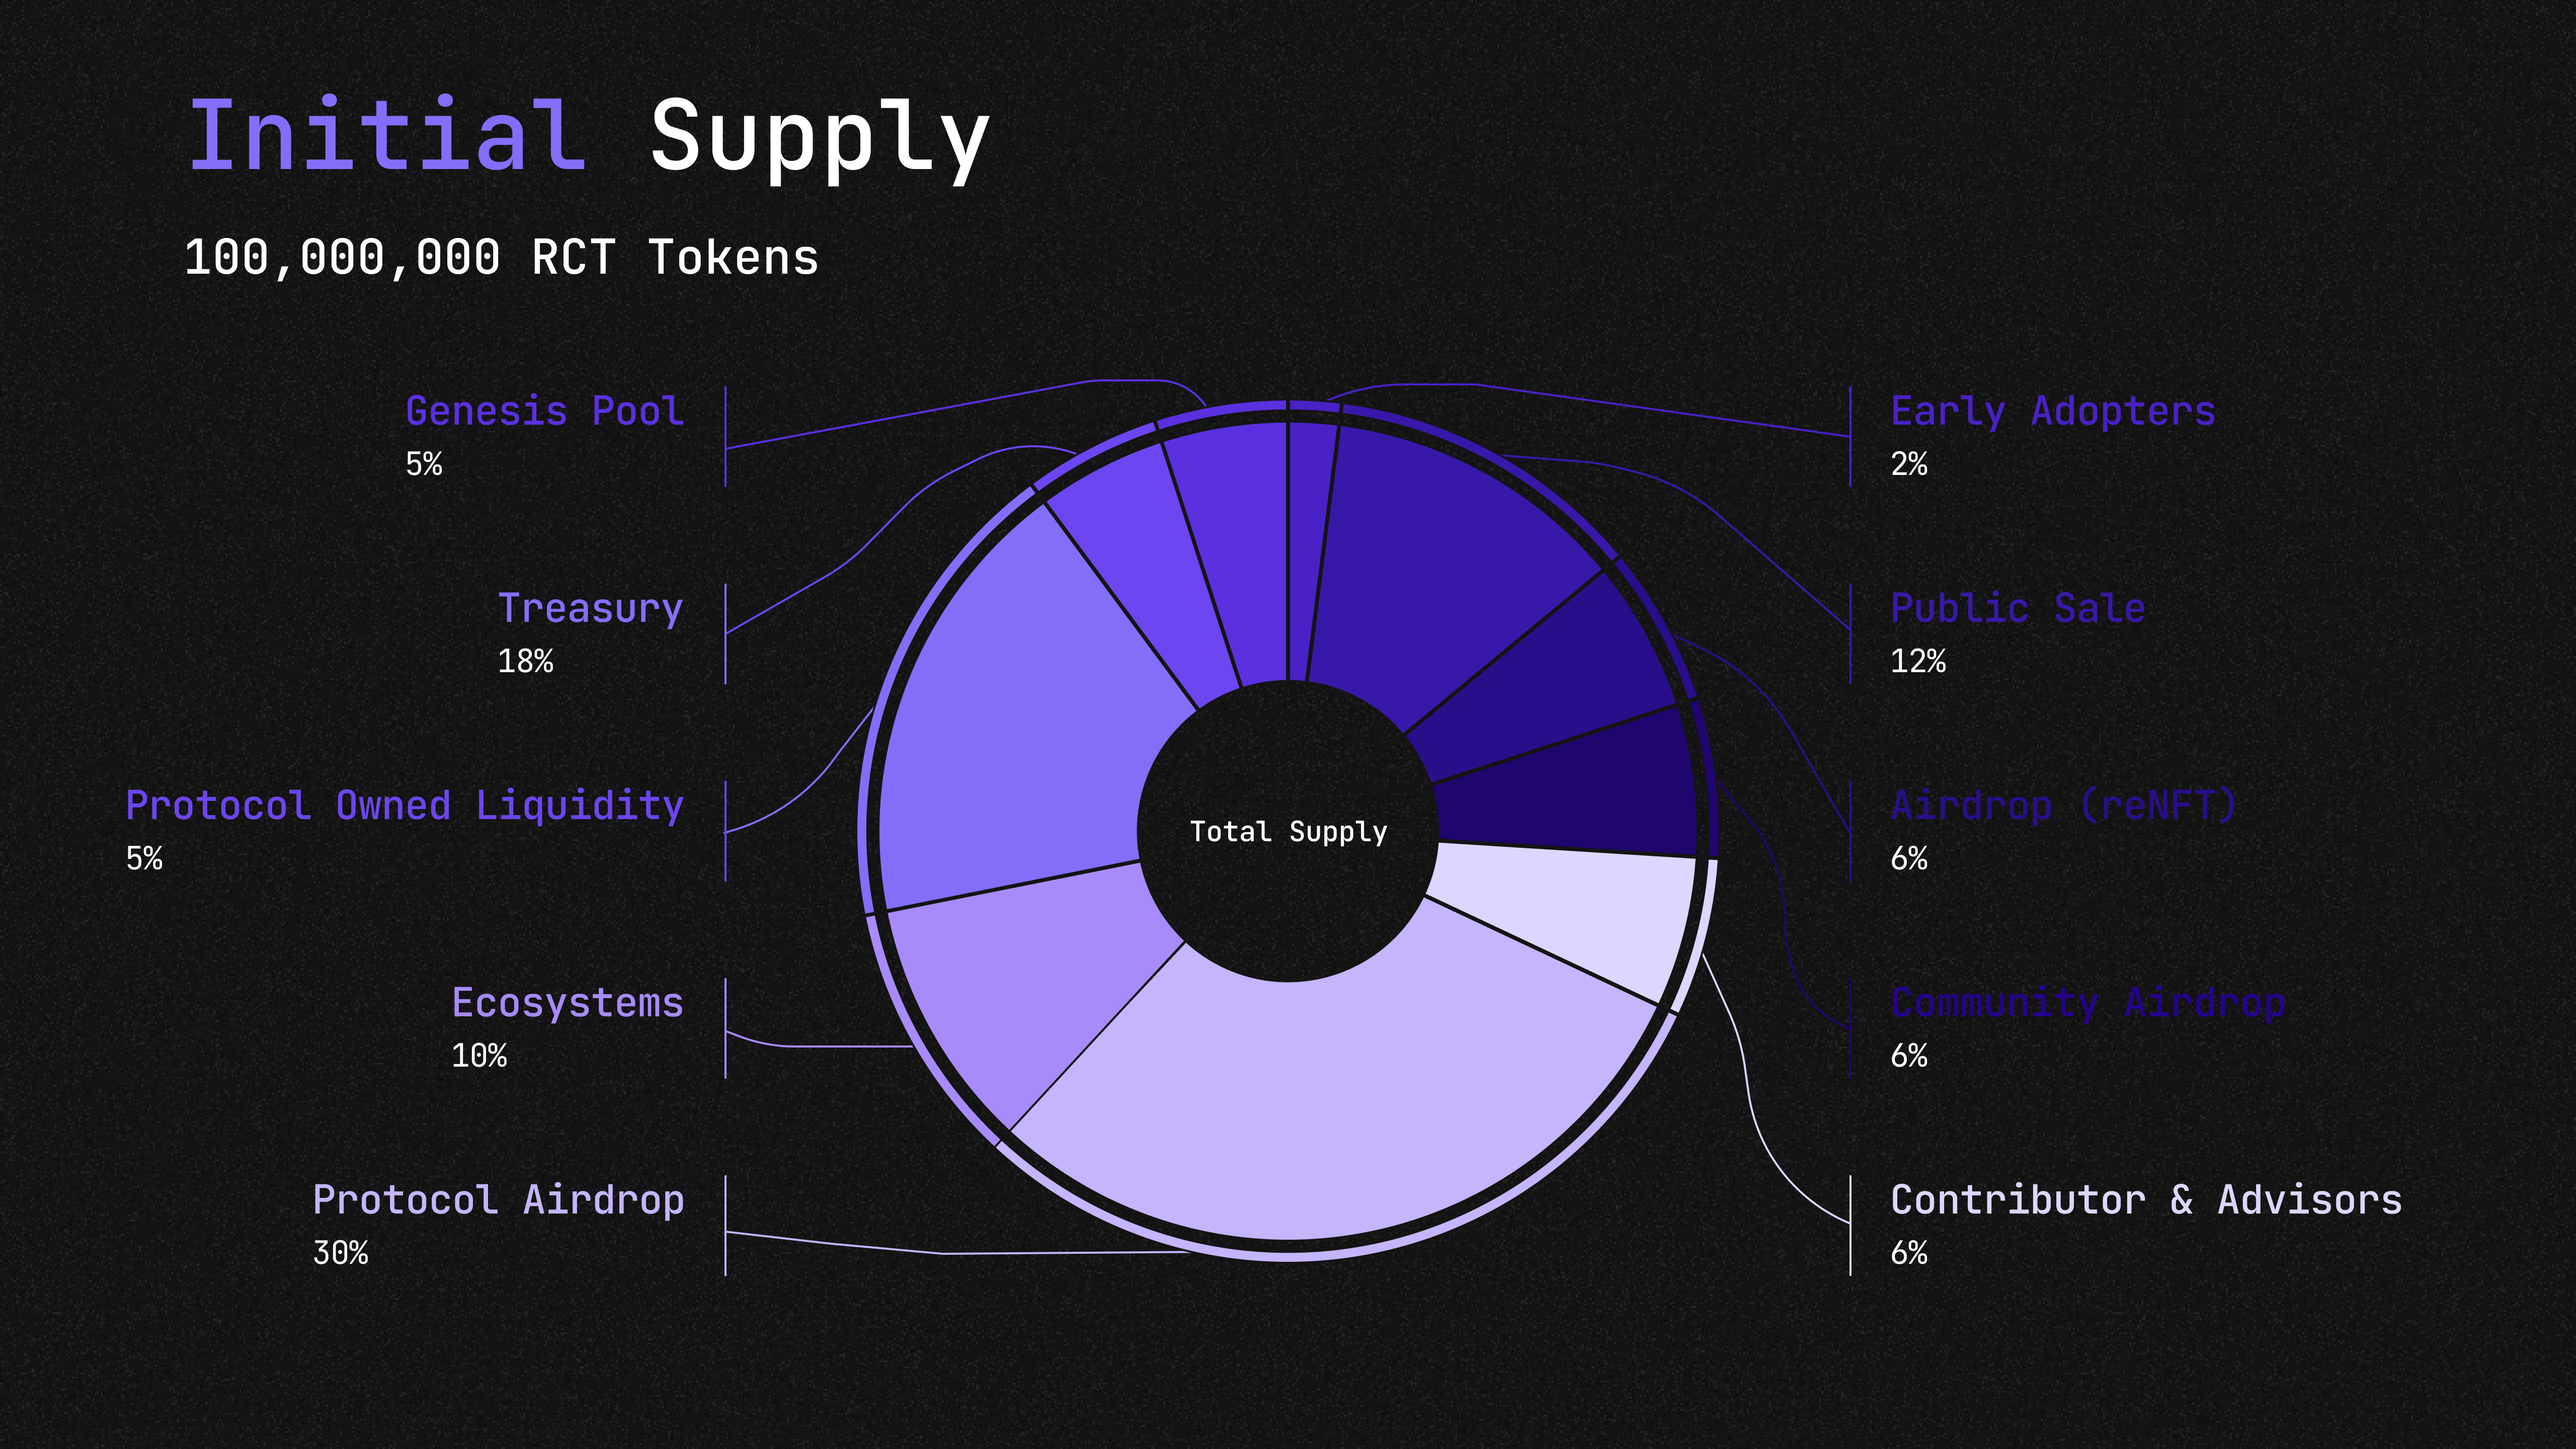
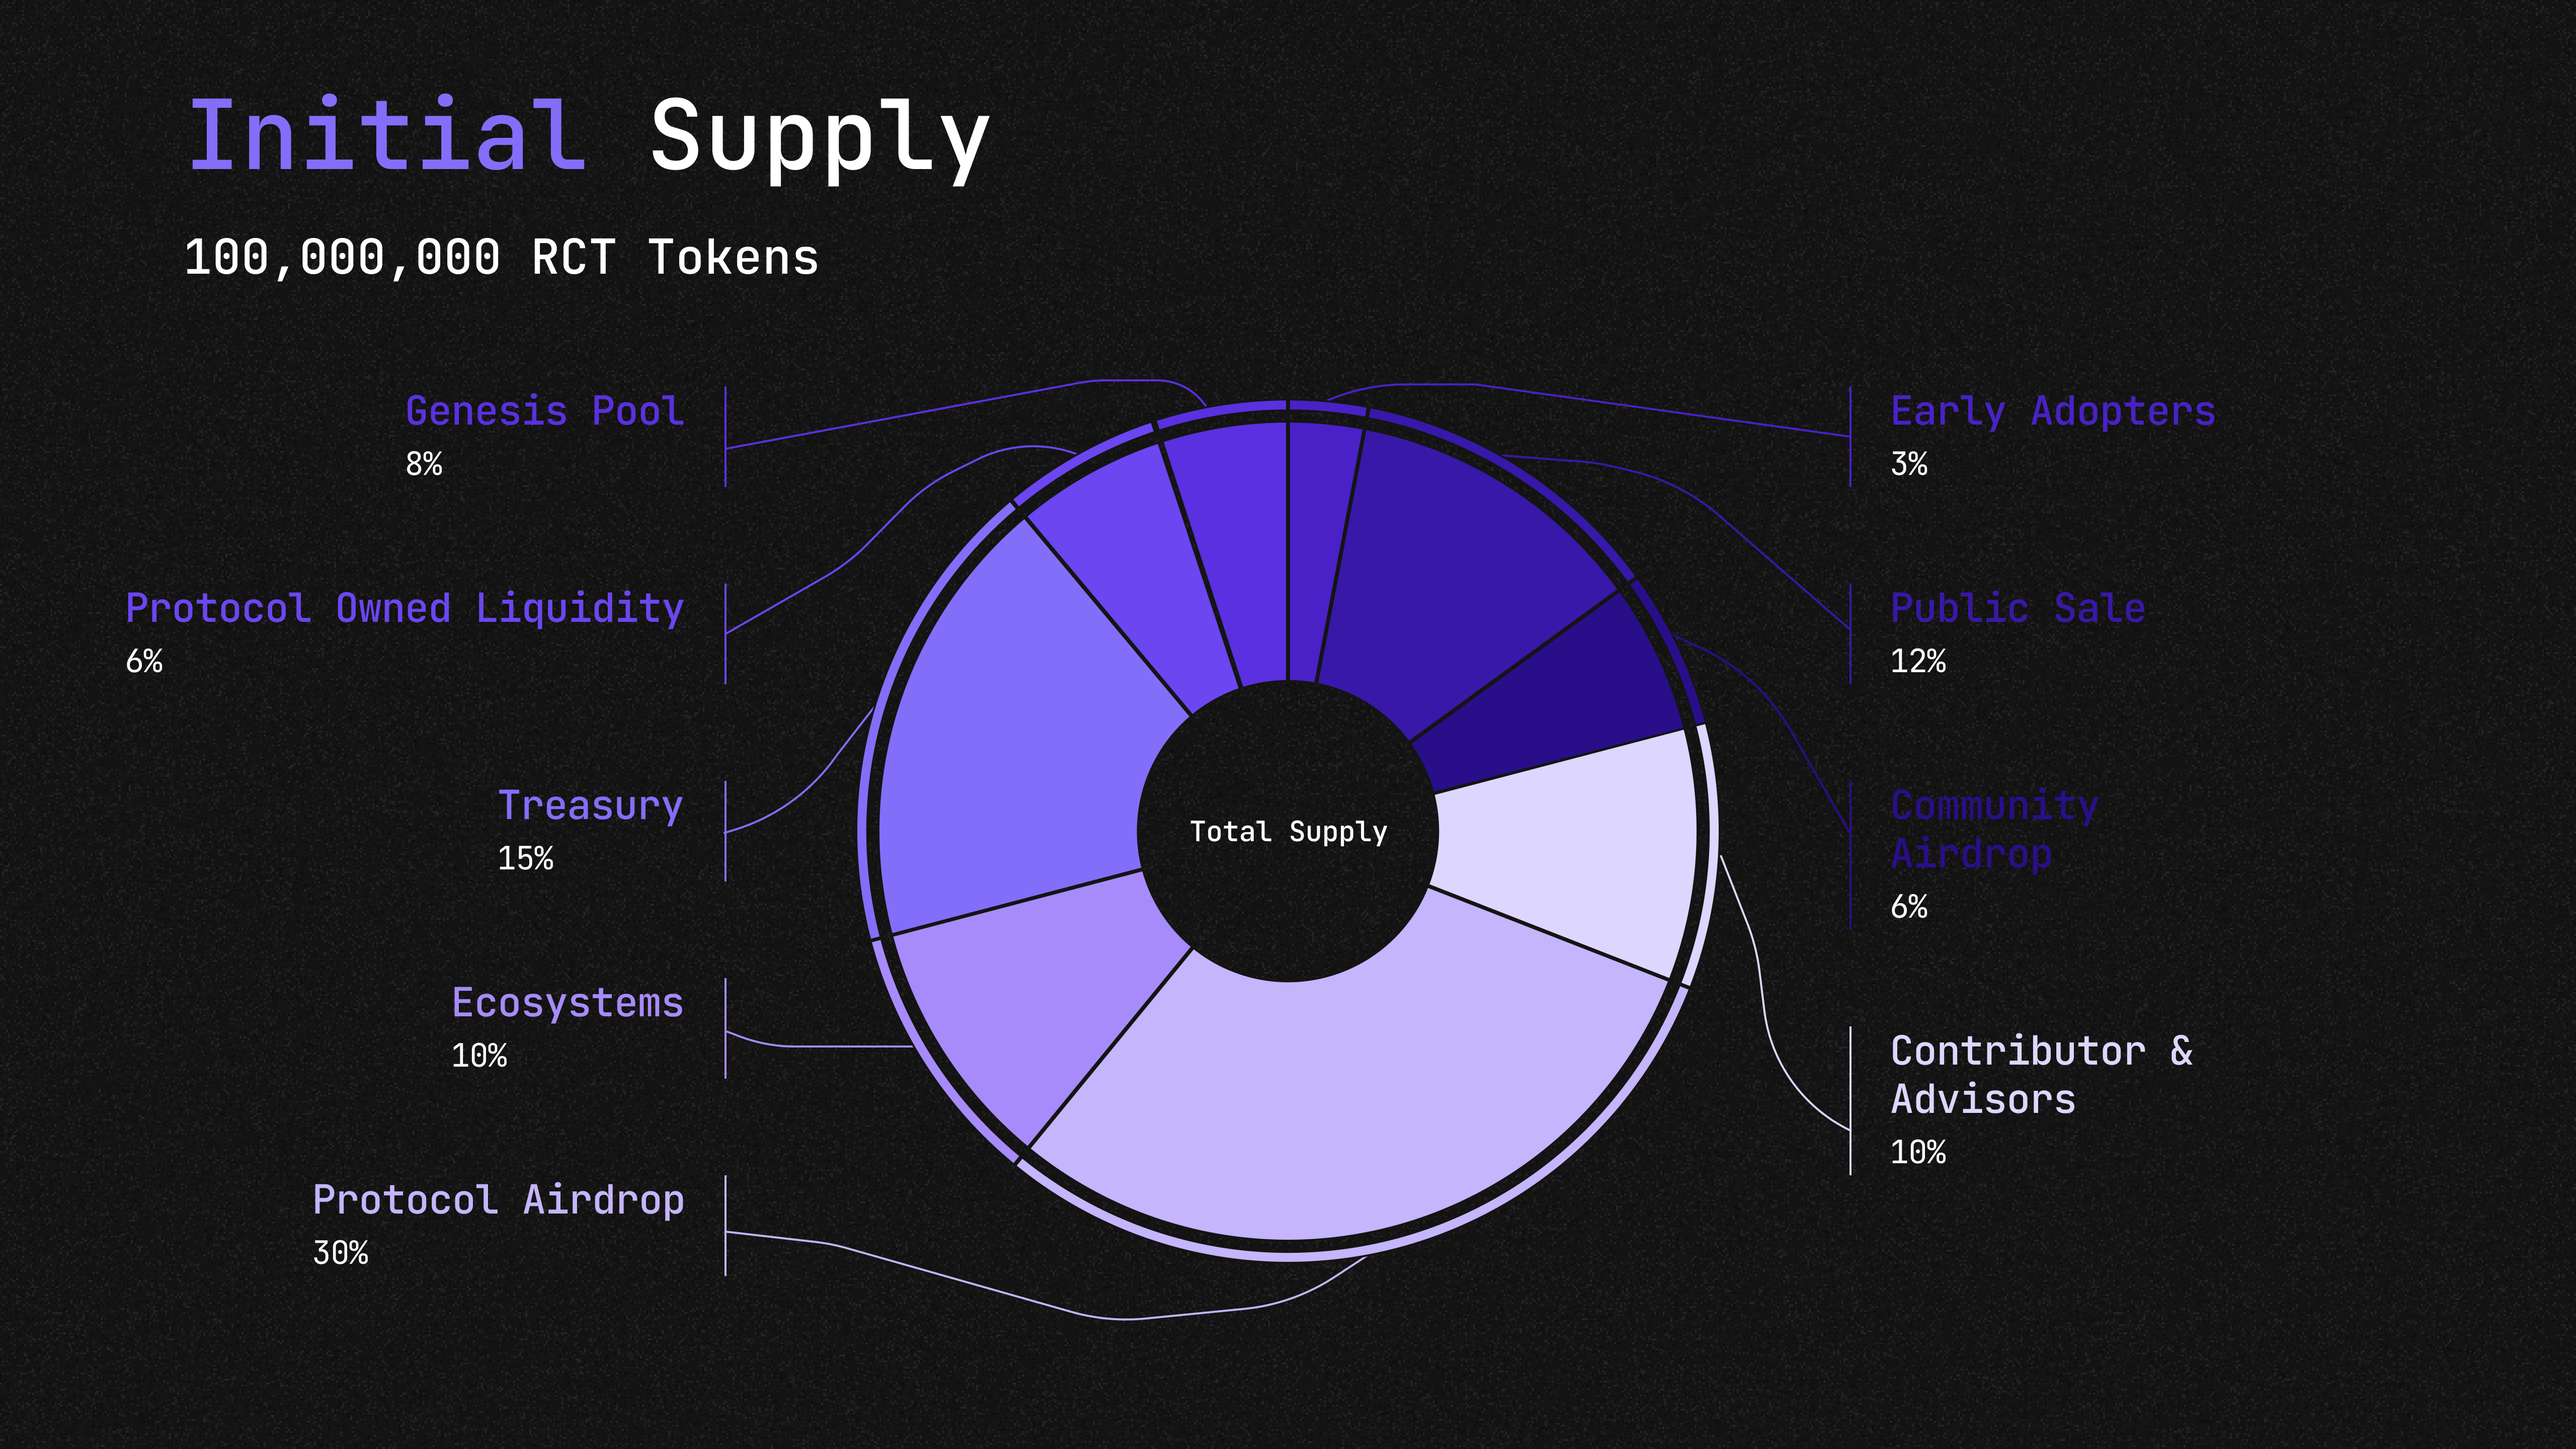
GITBOOK-10: No subject

diff --git a/tokenomics/distribution-schedule/README.md b/tokenomics/distribution-schedule/README.md
@@ -4,14 +4,19 @@
 
 <figure><img src="../../.gitbook/assets/Token Allocation (1).png" alt=""><figcaption></figcaption></figure>
 
-
-
 ## Token Distribution
 
-<table><thead><tr><th width="215">Category</th><th width="101" align="center">Percent</th><th width="159">Allocation</th><th width="238">Vesting</th></tr></thead><tbody><tr><td>Early Adopters</td><td align="center">3%</td><td>3,000,000</td><td>10% RCT at TGE, 90% veRCT locked 6months at TGE</td></tr><tr><td>Public Sale</td><td align="center">12%</td><td>12,000,000</td><td>50% RCT and 50% veRCT locked for 6months at TGE.</td></tr><tr><td>Community Airdrop</td><td align="center">6%</td><td>6,000,000</td><td>10% at TGE, 20% at months 6, 30% at months 12, 40% at months 24.</td></tr><tr><td>Protocol Airdrop</td><td align="center">30%</td><td>30,000,000</td><td>10% RCT and 90% in veRCT (max locked)</td></tr><tr><td>Contributor &#x26; Advisors</td><td align="center">10%</td><td>6,000,000</td><td>10% at month 1, followed by 90% locked in veRCT for 24 months.</td></tr><tr><td>Ecosystems</td><td align="center">10%</td><td>10,000,000</td><td>60% at 1 month, 4-month linear vesting.</td></tr><tr><td>Treasury</td><td align="center">15%</td><td>15,000,000</td><td>10% RCT and 90% veRCT (max locked)</td></tr><tr><td>Protocol Owned Liquidity</td><td align="center">6%</td><td>5,000,000</td><td>100% TGE in RCT</td></tr><tr><td>Genesis Pool</td><td align="center">8%</td><td>8,000,000</td><td>50% released in Week -2, remaining 50% locked for 24 months.</td></tr></tbody></table>
+<table><thead><tr><th width="215">Category</th><th width="101" align="center">Percent</th><th width="159">Allocation</th><th width="238">Vesting</th></tr></thead><tbody><tr><td>Seed Sale</td><td align="center">3%</td><td>3,000,000</td><td>10% RCT at TGE, 90% veRCT locked 6months at TGE</td></tr><tr><td>Public Sale</td><td align="center">12%</td><td>12,000,000</td><td>50% RCT and 50% veRCT locked for 6months at TGE.</td></tr><tr><td>Community Airdrop</td><td align="center">12%</td><td>12,000,000</td><td>10% at TGE, 20% at months 6, 30% at months 12, 40% at months 24.</td></tr><tr><td>Protocol Grants</td><td align="center">15%</td><td>15,000,000</td><td>100% Locked</td></tr><tr><td>Contributor &#x26; Advisors</td><td align="center">12%</td><td>12,000,000</td><td>10% at month 1, followed by 90% locked in veRCT for 24 months.</td></tr><tr><td>Ecosystems</td><td align="center">10%</td><td>10,000,000</td><td>60% at 1 month, 4-month linear vesting.</td></tr><tr><td>Treasury</td><td align="center">18%</td><td>18,000,000</td><td>10% RCT and 90% veRCT (max locked)</td></tr><tr><td>Protocol Owned Liquidity</td><td align="center">6%</td><td>6,000,000</td><td>100% TGE in RCT</td></tr><tr><td>Genesis Pool</td><td align="center">12%</td><td>12,000,000</td><td>50% released in Week -2, remaining 50% locked for 24 months.</td></tr></tbody></table>
 
-To ensure that `$RCT` tokenomics is sustainable long-term, most of the `$RCT` token inflation (from liquidity, treasury, public sale, etc.) will end within 1 year from the token launch.
+### **Genesis Pool**
 
-{% hint style="info" %}
+To promote long-term protocol alignment, 12% of Reactor’s initial token supply has been allocated for Genesis Pool. This ensures the protocol’s early supporters are rewarded while fostering a committed user base.
+
+**Allocation Breakdown:**
+
+* 8% – Reactor Points holder (Mainnet) will receive 4,500,000 tokens that will be distributed proportionally to early adopters who bootstrapped liquidity on Reactor during the Open Beta.
+* 4% – Will be allocated to voters on the WETH/USDC and MON/USDC pairs.
+
+{% hint style="warning" %}
 _\*TGE date has not been unveiled, and more details on the `RCT` airdrop are coming via official Reactor channels. Until that time, do not trust any claims about a `RCT` token sale, or airdrop._
 {% endhint %}

diff --git a/tokenomics/distribution-schedule/community-airdrop/README.md b/tokenomics/distribution-schedule/community-airdrop/README.md
@@ -28,3 +28,32 @@ The airdrop structure ensures Reactor’s alignment with its most active and com
 * 20% locked veRCT for 6 months at TGE
 * 30% locked veRCT for 12 months at TGE
 * 40% locked veRCT for 24 months at TGE
+
+***
+
+## Airdrop Allocation Overview
+
+To promote long-term protocol alignment, 12% of Reactor’s initial token supply has been allocated for strategic airdrops. This ensures the protocol’s early supporters are rewarded while fostering a committed user base.
+
+**Allocation Breakdown:**
+
+* 7% – Engaged users from Reactor
+* 5% – Engaged users from partner communities: Lynex on Linea, Thena on BNB, Aerodrome on Base, Velodrome on Optimism and Fenix on Blast.
+
+Our selection criteria encompass crucial factors such as TVL, trade volumes, prospects of future collaboration, and the quality of the product. In addition, we're steadfast in achieving equilibrium between Monad based protocols and projects hailing from other blockchain networks.
+
+Protocols are encouraged to take part in a virtuous cycle by reinvesting their earned emissions into incentives for their gauges, thereby attracting more liquidity. This strategy contributes to a self-sustaining ecosystem.
+
+***
+
+## Confirmed Protocols to Receive Airdrop
+
+* TBA
+* TBA
+* TBA
+
+## Confirmed Monad Communities to Receive Airdrop
+
+* TBA
+* TBA
+* TBA

diff --git a/tokenomics/distribution-schedule/community-airdrop/reactor-points.md b/tokenomics/distribution-schedule/community-airdrop/reactor-points.md
@@ -1,0 +1,17 @@
+# Reactor Points
+
+{% hint style="warning" %}
+Visit the points dashboard to track your points.
+{% endhint %}
+
+Reactor Points are user-focused airdrop rewards earned through the Community Airdrop program. Designed to drive growth and strengthen Reactor's ecosystem, this program positions Reactor as a premier hub for DeFi enthusiasts, empowering users to maximize their asset potential on Monad..
+
+To qualify for the airdrop, you will need to earn Reactor Points by swap and add Liquidity on Reactor. These points will be distributed as 10% RCT and 90% veRCT, ensuring long-term sustainability and preventing sudden shifts in supply.
+
+## Airdrop Points Dashboard
+
+The Reactor points dashboard is a comprehensive platform where users can:
+
+* Check earned points
+* Generate a referral code and share with friends to earn extra points
+* View a leaderboard that displays the points

diff --git a/SUMMARY.md b/SUMMARY.md
@@ -24,8 +24,8 @@
 ## Tokenomics
 
 * [Distribution Schedule](tokenomics/distribution-schedule/README.md)
-  * [Community Airdrop](tokenomics/distribution-schedule/community-airdrop.md)
-  * [Protocol Airdrop](tokenomics/distribution-schedule/protocol-airdrop.md)
+  * [Community Airdrop](tokenomics/distribution-schedule/community-airdrop/README.md)
+    * [Reactor Points](tokenomics/distribution-schedule/community-airdrop/reactor-points.md)
 * [Tokens](tokenomics/tokens-rct-verct-rctnft/README.md)
   * [veRCT](tokenomics/tokens-rct-verct-rctnft/verct.md)
   * [Emissions Schedule](tokenomics/tokens-rct-verct-rctnft/emissions-schedule.md)
